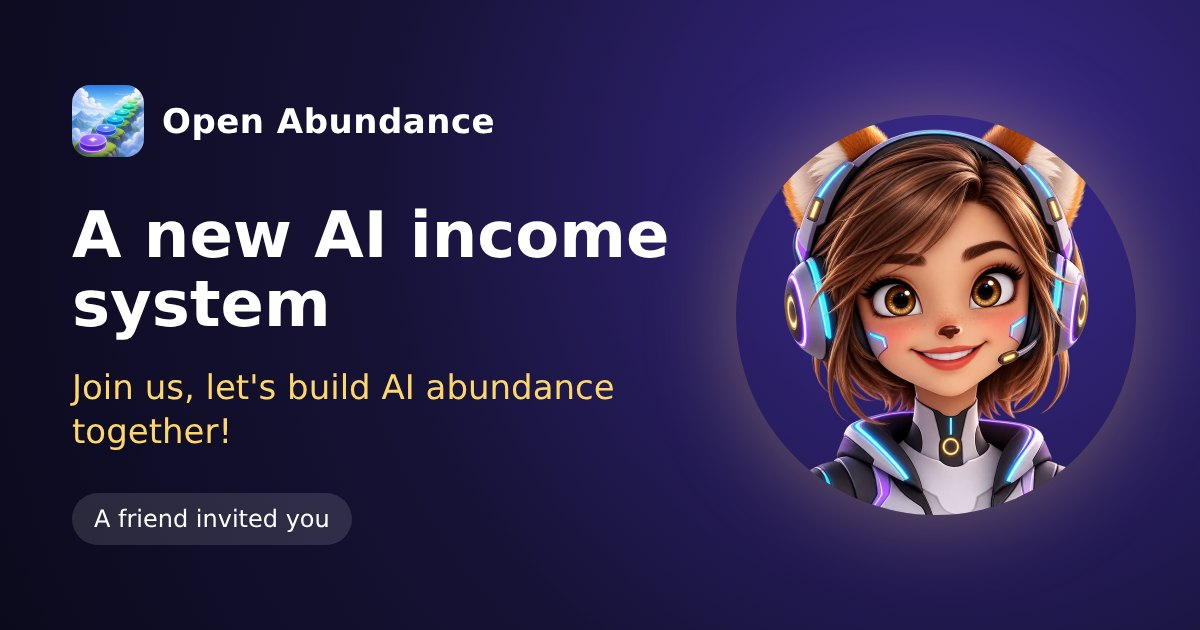
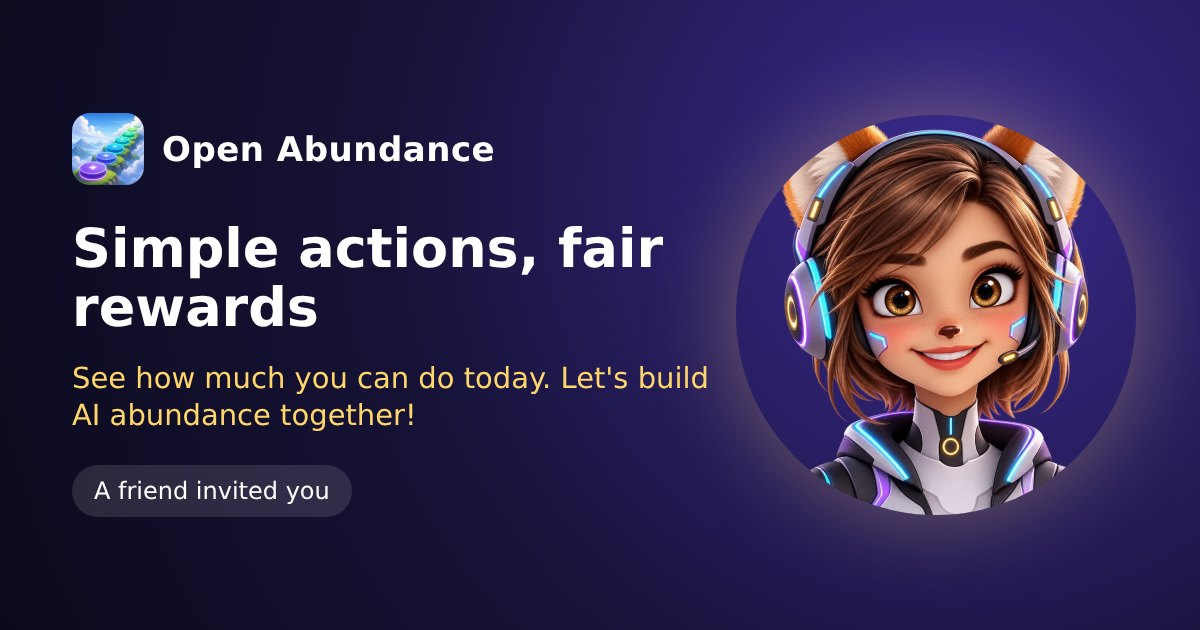
Invite link preview: neutral wording without income claims (simple actions, fair rewards), new cards
Claude-Session: https://claude.ai/code/session_01DApebG8xBmqyxjf9ZeUJWR

Changed region(s): [[0.0617, 0.573, 0.5858, 0.8746], [0.0617, 0.3317, 0.555, 0.5429], [0.0617, 0.1206, 0.4317, 0.3016]]

diff --git a/app/i/[code]/page.tsx b/app/i/[code]/page.tsx
@@ -9,12 +9,12 @@ type Invite = { name: string | null; locale: "ru" | "en" };
 const TEXT = {
   ru: {
     title: (name: string | null) => (name ? `${name} зовёт тебя в Open Abundance` : "Тебя зовут в Open Abundance"),
-    description: "Новая ИИ-система дохода. Присоединяйся, построим ИИ-изобилие вместе!",
+    description: "Простые действия и достойные награды. Узнай, сколько можно сделать уже сегодня. Построим ИИ-изобилие вместе!",
     open: "Открыть приглашение"
   },
   en: {
     title: (name: string | null) => (name ? `${name} invites you to Open Abundance` : "You are invited to Open Abundance"),
-    description: "A new AI income system. Join us, let's build AI abundance together!",
+    description: "Simple actions, fair rewards. See how much you can do today. Let's build AI abundance together!",
     open: "Open the invitation"
   }
 };
@@ -43,7 +43,7 @@ export async function generateMetadata({ params }: { params: { code: string } })
   const invite = await loadInvite(cleanCode(params.code));
   const text = TEXT[invite.locale];
   const title = text.title(invite.name);
-  const image = { url: `/og/invite-${invite.locale}.jpg`, width: 1200, height: 630, alt: text.description };
+  const image = { url: `/og/invite-${invite.locale}.jpg?v=2`, width: 1200, height: 630, alt: text.description };
   return {
     title: { absolute: title },
     description: text.description,

diff --git a/lib/messages/ru.ts b/lib/messages/ru.ts
@@ -3155,7 +3155,7 @@ const ru: Record<string, string> = {
     "quests.invite.send.copied": "Скопировано",
     "quests.invite.send.showQr": "QR-код",
     "quests.invite.send.next": "Я отправил(а)",
-    "quests.invite.shareText": "Новая ИИ-система дохода. Присоединяйся, построим ИИ-изобилие вместе!",
+    "quests.invite.shareText": "Простые действия и достойные награды. Узнай, сколько можно сделать уже сегодня. Построим ИИ-изобилие вместе!",
     "quests.invite.help.title": "Вопрос",
     "quests.invite.help.text": "Что помогло бы тебе приглашать больше людей? Можно выбрать несколько.",
     "quests.invite.help.option.texts": "Больше готовых текстов",

diff --git a/lib/messages/en.ts b/lib/messages/en.ts
@@ -3155,7 +3155,7 @@ const en = {
     "quests.invite.send.copied": "Copied",
     "quests.invite.send.showQr": "QR code",
     "quests.invite.send.next": "I've sent it",
-    "quests.invite.shareText": "A new AI income system. Join us, let's build AI abundance together!",
+    "quests.invite.shareText": "Simple actions, fair rewards. See how much you can do today. Let's build AI abundance together!",
     "quests.invite.help.title": "Question",
     "quests.invite.help.text": "What would help you invite more people? You can pick several.",
     "quests.invite.help.option.texts": "More ready texts",

diff --git a/docs/REFERRAL_PROGRAM_V2.md b/docs/REFERRAL_PROGRAM_V2.md
@@ -34,7 +34,7 @@
 
 ## Ссылка-приглашение
 
-`/i/<код>`: превью с карточкой (`public/og/invite-ru.jpg`, `invite-en.jpg`), заголовок «<имя> зовёт тебя в Open Abundance», описание «Новая ИИ-система дохода. Присоединяйся, построим ИИ-изобилие вместе!». Человек сразу переходит на `/?ref=<код>&utm_medium=invite`.
+`/i/<код>`: превью с карточкой (`public/og/invite-ru.jpg`, `invite-en.jpg`), заголовок «<имя> зовёт тебя в Open Abundance», описание «Простые действия и достойные награды. Узнай, сколько можно сделать уже сегодня. Построим ИИ-изобилие вместе!» (без слов про доход и сумм, чтобы превью не резали фильтры; про бонусы рассказываем внутри приложения). Человек сразу переходит на `/?ref=<код>&utm_medium=invite`.
 
 ## Аналитика
 
